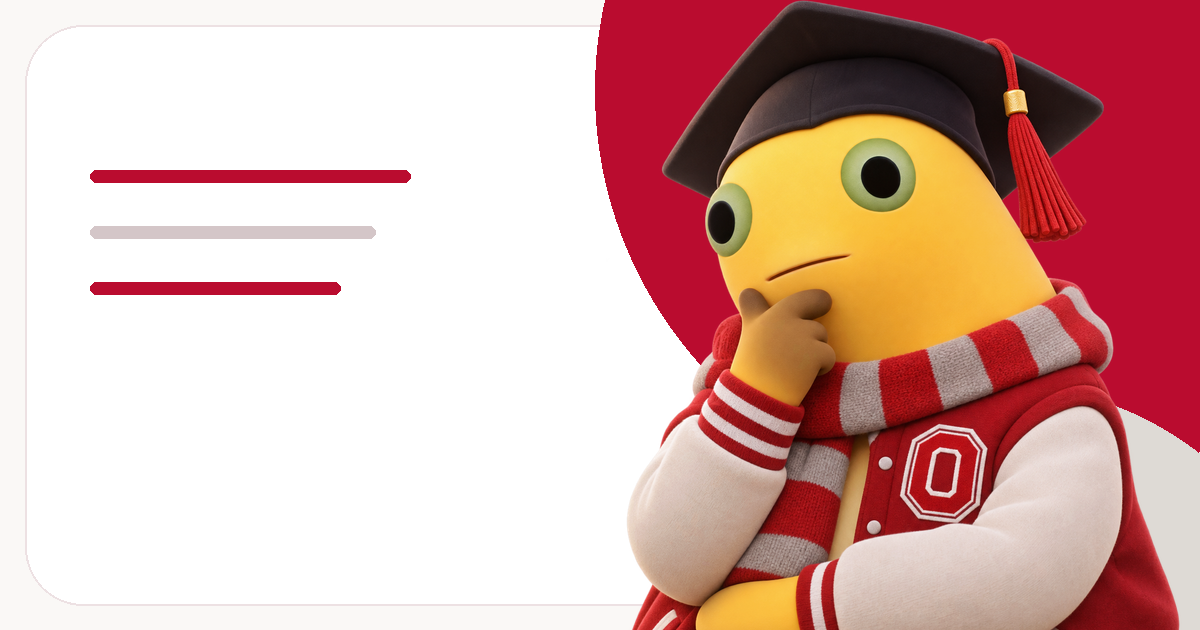
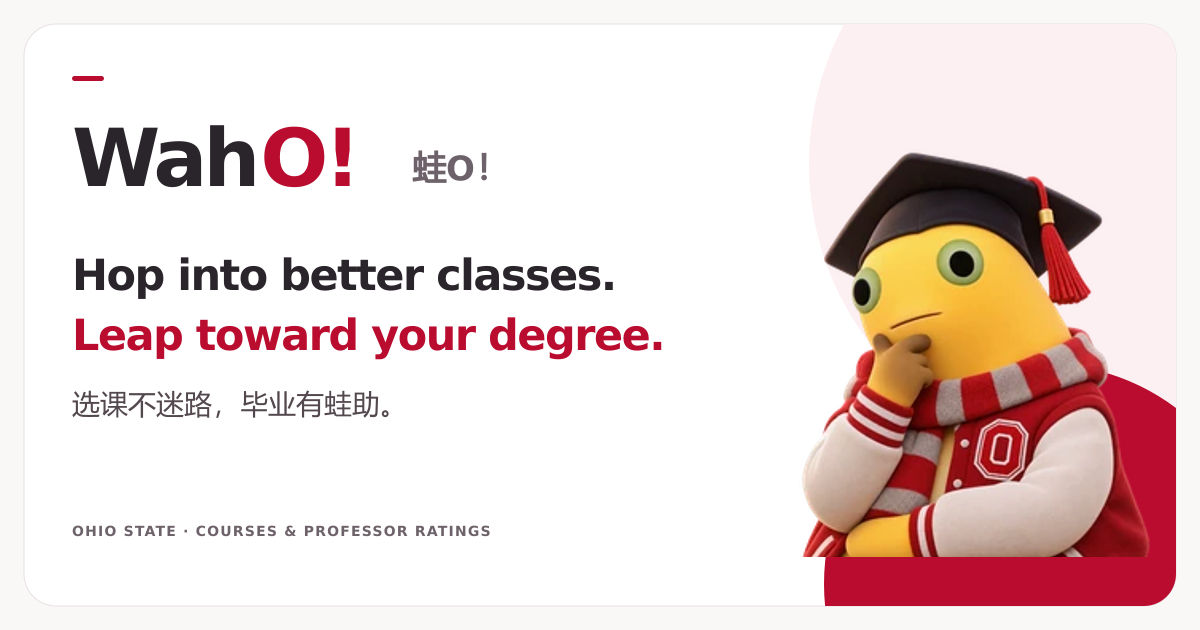
feat(brand): launch WahO bilingual identity and slogan

diff --git a/src/components/catalog/course-explorer.tsx b/src/components/catalog/course-explorer.tsx
@@ -23,6 +23,8 @@ import { AppHeader } from "@/components/layout/app-header";
 import { AppFooter } from "@/components/layout/app-footer";
 import { BrandMascot } from "@/components/brand/brand-mascot";
 import { SceneMascot } from "@/components/brand/scene-mascot";
+import { brand } from "@/lib/brand";
+import brandStyles from "@/components/brand/brand-identity.module.css";
 import { FilterPanel } from "./filter-panel";
 import { CourseCard } from "./course-card";
 import { EnrollmentWatchControl } from "./enrollment-watch-control";
@@ -357,15 +359,24 @@ export function CourseExplorer() {
     <>
       <AppHeader />
       <main className="explorer-shell">
-        <div className="page-heading">
-          <div>
-            <span className="brand-eyebrow">OHIO STATE · COURSE ATLAS</span>
-            <h1>{text(locale, "Explore courses", "课程查询")}</h1>
-            <p>
+        <div className={`page-heading ${brandStyles.hero}`}>
+          <div className={brandStyles.heroCopy}>
+            <span className={brandStyles.heroEyebrow}>
+              {brand.context[locale]}
+            </span>
+            <h1
+              className={brandStyles.slogan}
+              lang={locale === "zh" ? "zh-CN" : "en"}
+            >
+              <span>{brand.slogan[locale][0]}</span>
+              {locale === "en" ? " " : null}
+              <span>{brand.slogan[locale][1]}</span>
+            </h1>
+            <p className={brandStyles.heroDescription}>
               {text(
                 locale,
-                "Courses, schedules, and professor evaluations. Think through your next semester.",
-                "课程、课表与教授评价，为下一学期多想一步。",
+                "Explore Ohio State courses, compare schedules, and get to know your professors.",
+                "查课程、看课表、了解教授，为下一学期做好准备。",
               )}
             </p>
           </div>

diff --git a/src/components/brand/brand-identity.module.css b/src/components/brand/brand-identity.module.css
@@ -1,0 +1,115 @@
+.wordmark {
+  display: inline-block;
+  color: var(--ink);
+  font-size: 1.15em;
+  font-weight: 800;
+  letter-spacing: -0.055em;
+  line-height: 1.1;
+  white-space: nowrap;
+}
+
+.wordmark:lang(zh-CN) {
+  letter-spacing: -0.035em;
+}
+
+.wordmarkAccent {
+  color: var(--primary);
+}
+
+.hero {
+  align-items: flex-end;
+  gap: 28px;
+  padding: 3px 0 5px;
+}
+
+.heroCopy {
+  min-width: 0;
+}
+
+.heroEyebrow {
+  display: inline-flex;
+  align-items: center;
+  gap: 8px;
+  margin-bottom: 15px;
+  color: var(--muted);
+  font-size: 10px;
+  font-weight: 700;
+  letter-spacing: 0.08em;
+  line-height: 1.6;
+}
+
+.heroEyebrow::before {
+  width: 6px;
+  height: 6px;
+  flex-shrink: 0;
+  border-radius: 50%;
+  background: var(--primary);
+  content: "";
+}
+
+.hero .slogan {
+  font-size: clamp(30px, 3.1vw, 44px);
+  font-weight: 700;
+  letter-spacing: -0.045em;
+  line-height: 1.2;
+  text-wrap: balance;
+}
+
+.slogan > span {
+  display: block;
+}
+
+.slogan > span:last-child {
+  color: var(--primary);
+}
+
+.hero .slogan:lang(zh-CN) {
+  letter-spacing: 0.015em;
+  line-height: 1.4;
+}
+
+.hero .heroDescription {
+  max-width: 560px;
+  margin-top: 13px;
+  font-size: 13px;
+  line-height: 1.7;
+}
+
+.hero > :last-child {
+  flex-shrink: 0;
+  margin-bottom: 3px;
+}
+
+@media (max-width: 800px) {
+  .hero .slogan {
+    font-size: 31px;
+  }
+}
+
+@media (max-width: 640px) {
+  .hero {
+    flex-direction: column;
+    align-items: flex-start;
+    gap: 20px;
+  }
+}
+
+@media (max-width: 540px) {
+  .heroEyebrow {
+    margin-bottom: 12px;
+    font-size: 9px;
+    letter-spacing: 0.04em;
+  }
+
+  .hero .slogan {
+    font-size: clamp(21px, 6.7vw, 34px);
+  }
+
+  .hero .slogan:lang(zh-CN) {
+    font-size: 32px;
+  }
+
+  .hero .heroDescription {
+    font-size: 12px;
+  }
+}

diff --git a/src/components/evaluations/methodology.tsx b/src/components/evaluations/methodology.tsx
@@ -3,13 +3,16 @@ import { AppHeader } from "@/components/layout/app-header";
 import { AppFooter } from "@/components/layout/app-footer";
 import { usePreferences } from "@/hooks/use-preferences";
 import { text } from "@/lib/i18n";
+import { brand } from "@/lib/brand";
 export function Methodology() {
   const { locale } = usePreferences();
   return (
     <>
       <AppHeader active="methodology" />
       <main className="methodology-shell">
-        <span className="brand-eyebrow">OHIO STATE · COURSE ATLAS</span>
+        <span className="brand-eyebrow">
+          OHIO STATE · {brand.names[locale]}
+        </span>
         <h1>{text(locale, "Behind the data", "数据从哪里来，分数怎么算")}</h1>
         <article>
           <h2>{text(locale, "Current classes", "当前开课信息")}</h2>
@@ -93,8 +96,8 @@ export function Methodology() {
           <p>
             {text(
               locale,
-              "Course Atlas is an independent explorer. Use Buckeye Link and official university advising to confirm registration, requirements, and degree applicability.",
-              "Course Atlas 是独立的课程查询工具，注册选课、先修要求与学位适用性请以 Buckeye Link 和学校官方学业指导为准。",
+              `${brand.names.en} is an independent explorer. Use Buckeye Link and official university advising to confirm registration, requirements, and degree applicability.`,
+              `${brand.names.zh} 是独立的课程查询工具，注册选课、先修要求与学位适用性请以 Buckeye Link 和学校官方学业指导为准。`,
             )}
           </p>
         </article>

diff --git a/src/components/layout/app-footer.tsx b/src/components/layout/app-footer.tsx
@@ -3,6 +3,7 @@
 import Link from "next/link";
 import { ArrowUpRight } from "lucide-react";
 import { BrandMascot } from "@/components/brand/brand-mascot";
+import { BrandWordmark } from "@/components/brand/brand-wordmark";
 import { usePreferences } from "@/hooks/use-preferences";
 import { brand } from "@/lib/brand";
 import { text } from "@/lib/i18n";
@@ -15,17 +16,17 @@ export function AppFooter() {
         <Link
           href="/"
           className="footer-brand"
-          aria-label={text(locale, `${brand.name} home`, `${brand.name} 首页`)}
+          aria-label={text(
+            locale,
+            `${brand.names.en} home`,
+            `${brand.names.zh} 首页`,
+          )}
         >
           <BrandMascot portrait size={28} />
           <span className="footer-brand-copy">
-            <strong>{brand.name}</strong>
+            <BrandWordmark locale={locale} />
             <span className="footer-description">
-              {text(
-                locale,
-                "Independent OSU course & professor guide",
-                "独立的 OSU 课程与教授评价指南",
-              )}
+              {brand.slogan[locale].join(locale === "zh" ? "" : " ")}
             </span>
           </span>
         </Link>

diff --git a/src/components/layout/app-header.tsx b/src/components/layout/app-header.tsx
@@ -3,6 +3,7 @@ import Link from "next/link";
 import { useEffect } from "react";
 import { Bookmark, ArrowUpRight, Languages } from "lucide-react";
 import { BrandMascot } from "@/components/brand/brand-mascot";
+import { BrandWordmark } from "@/components/brand/brand-wordmark";
 import { brand } from "@/lib/brand";
 import { usePreferences } from "@/hooks/use-preferences";
 import { text } from "@/lib/i18n";
@@ -34,13 +35,13 @@ export function AppHeader({
             className="brand"
             aria-label={text(
               locale,
-              `${brand.name} home`,
-              `${brand.name} 首页`,
+              `${brand.names.en} home`,
+              `${brand.names.zh} 首页`,
             )}
           >
             <BrandMascot portrait size={48} className="brand-mark" eager />
             <span>
-              course<span className="brand-light">atlas</span>
+              <BrandWordmark locale={locale} />
               <span className="brand-school">
                 {text(locale, "OSU COURSES & RATINGS", "OSU 课程与教授评分")}
               </span>

diff --git a/src/lib/brand.ts b/src/lib/brand.ts
@@ -10,10 +10,19 @@ const mascotVariants = {
 } as const;
 
 export const brand = {
-  name: "Course Atlas",
-  title: "Course Atlas · OSU courses & professor ratings",
+  name: "WahO! / 蛙O！",
+  names: { en: "WahO!", zh: "蛙O！" },
+  slogan: {
+    en: ["Hop into better classes.", "Leap toward your degree."],
+    zh: ["选课不迷路，", "毕业有蛙助。"],
+  },
+  context: {
+    en: "OHIO STATE · COURSES & PROFESSOR RATINGS",
+    zh: "OHIO STATE · 课程与教授评价",
+  },
+  title: "WahO! 蛙O！ · OSU courses & professor ratings",
   description:
-    "Explore Ohio State courses, class schedules, and professor evaluations with Course Atlas. OSU 课程查询、课表与教授评价，一站了解。",
+    "Hop into better classes. Leap toward your degree. 选课不迷路，毕业有蛙助。 Explore Ohio State courses, schedules, and professor evaluations with WahO! 蛙O！",
   themeColor: "#BA0C2F",
   backgroundColor: "#FAF8F6",
   assets: {

diff --git a/src/app/layout.tsx b/src/app/layout.tsx
@@ -27,6 +27,8 @@ function metadataBase(): URL {
   return new URL("http://localhost:3000");
 }
 
+const socialImageAlt = `${brand.name} — ${brand.slogan.en.join(" ")} ${brand.slogan.zh.join("")}`;
+
 export const metadata: Metadata = {
   metadataBase: metadataBase(),
   applicationName: brand.name,
@@ -47,7 +49,7 @@ export const metadata: Metadata = {
         url: brand.assets.social,
         width: 1200,
         height: 630,
-        alt: "Course Atlas thinking campus mascot in Ohio State scarlet and gray",
+        alt: socialImageAlt,
       },
     ],
   },
@@ -58,7 +60,7 @@ export const metadata: Metadata = {
     images: [
       {
         url: brand.assets.social,
-        alt: "Course Atlas thinking campus mascot in Ohio State scarlet and gray",
+        alt: socialImageAlt,
       },
     ],
   },

diff --git a/src/app/not-found.tsx b/src/app/not-found.tsx
@@ -7,6 +7,7 @@ import { SceneMascot } from "@/components/brand/scene-mascot";
 import { Button } from "@/components/ui/button";
 import { usePreferences } from "@/hooks/use-preferences";
 import { text } from "@/lib/i18n";
+import { brand } from "@/lib/brand";
 
 export default function NotFound() {
   const { locale } = usePreferences();
@@ -16,7 +17,7 @@ export default function NotFound() {
       <main className="saved-shell">
         <div className="empty-results">
           <SceneMascot scene="not-found" />
-          <span className="brand-eyebrow">404 · COURSE ATLAS</span>
+          <span className="brand-eyebrow">404 · {brand.names[locale]}</span>
           <h1 className="status-heading">
             {text(
               locale,

diff --git a/src/app/methodology/page.tsx b/src/app/methodology/page.tsx
@@ -1,10 +1,10 @@
 import type { Metadata } from "next";
 import { Methodology } from "@/components/evaluations/methodology";
+import { brand } from "@/lib/brand";
 
 export const metadata: Metadata = {
   title: "Evaluation methodology",
-  description:
-    "Understand how Course Atlas presents Ohio State teaching evaluations, matches instructors, and keeps rating sources distinct.",
+  description: `Understand how ${brand.name} presents Ohio State teaching evaluations, matches instructors, and keeps rating sources distinct.`,
 };
 
 export default function MethodologyPage() {

diff --git a/src/app/saved/page.tsx b/src/app/saved/page.tsx
@@ -1,10 +1,10 @@
 import type { Metadata } from "next";
 import { SavedCourses } from "@/components/saved/saved-courses";
+import { brand } from "@/lib/brand";
 
 export const metadata: Metadata = {
   title: "Saved courses",
-  description:
-    "Revisit the Ohio State courses you saved with Course Atlas. Your shortlist stays on this device.",
+  description: `Revisit the Ohio State courses you saved with ${brand.name}. Your shortlist stays on this device.`,
 };
 
 export default function SavedPage() {

diff --git a/src/app/globals.css b/src/app/globals.css
@@ -135,10 +135,6 @@ select {
   height: 48px;
 }
 
-.brand-light {
-  font-weight: 400;
-  color: var(--primary);
-}
 .brand-school {
   display: block;
   font-size: 8px;
@@ -1564,10 +1560,18 @@ h1 {
 @media (max-width: 360px) {
   .header-inner {
     padding: 0 12px;
-    gap: 12px;
+    gap: 8px;
   }
   .brand {
     font-size: 17px;
+    gap: 5px;
+  }
+  .brand-mark {
+    width: 30px;
+    height: 30px;
+  }
+  .brand-school {
+    display: none;
   }
   .main-nav {
     gap: 11px;

diff --git a/src/components/brand/brand-wordmark.tsx b/src/components/brand/brand-wordmark.tsx
@@ -1,0 +1,13 @@
+import { brand } from "@/lib/brand";
+import type { Locale } from "@/lib/i18n";
+import styles from "./brand-identity.module.css";
+
+export function BrandWordmark({ locale }: { locale: Locale }) {
+  const name = brand.names[locale];
+  return (
+    <span className={styles.wordmark} lang={locale === "zh" ? "zh-CN" : "en"}>
+      {name.slice(0, -2)}
+      <span className={styles.wordmarkAccent}>{name.slice(-2)}</span>
+    </span>
+  );
+}
